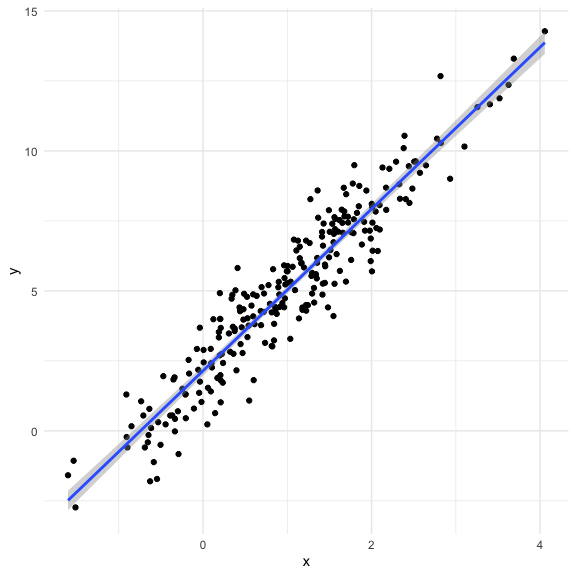
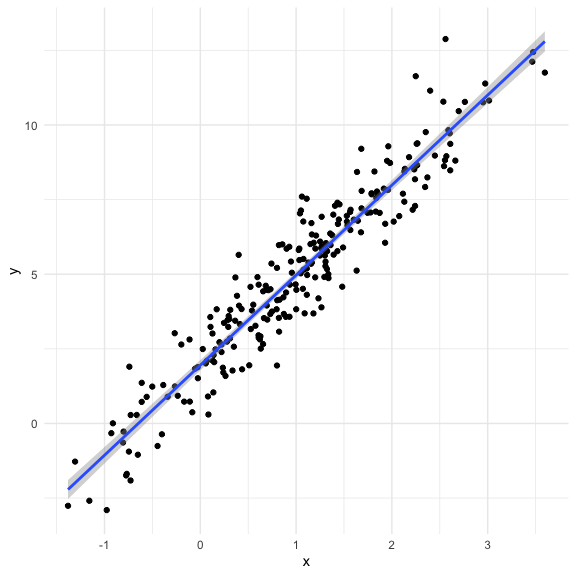
bootstrap and analyze results

diff --git a/bootstraping.md b/bootstraping.md
@@ -102,8 +102,8 @@ lm(y ~ x, data = sim_df_const) %>% broom::tidy()
     ## # A tibble: 2 x 5
     ##   term        estimate std.error statistic   p.value
     ##   <chr>          <dbl>     <dbl>     <dbl>     <dbl>
-    ## 1 (Intercept)     2.15    0.0890      24.1 5.70e- 67
-    ## 2 x               2.89    0.0632      45.8 6.52e-123
+    ## 1 (Intercept)     1.95    0.0878      22.2 6.72e- 61
+    ## 2 x               3.02    0.0626      48.1 7.68e-128
 
 ``` r
 lm(y ~ x, data = sim_df_nonconst) %>% broom::tidy()
@@ -112,8 +112,8 @@ lm(y ~ x, data = sim_df_nonconst) %>% broom::tidy()
     ## # A tibble: 2 x 5
     ##   term        estimate std.error statistic   p.value
     ##   <chr>          <dbl>     <dbl>     <dbl>     <dbl>
-    ## 1 (Intercept)     2.04    0.0894      22.8 1.03e- 62
-    ## 2 x               2.91    0.0635      45.8 5.76e-123
+    ## 1 (Intercept)     2.06    0.0922      22.3 2.40e- 61
+    ## 2 x               2.93    0.0657      44.6 2.38e-120
 
 The assumptions used to build the model are wrong. There is uncertainty
 in the estimates. How much? lets figure that out
@@ -161,5 +161,140 @@ boot_samp(sim_df_nonconst) %>%
     ## # A tibble: 2 x 5
     ##   term        estimate std.error statistic   p.value
     ##   <chr>          <dbl>     <dbl>     <dbl>     <dbl>
-    ## 1 (Intercept)     2.09    0.0992      21.1 2.81e- 57
-    ## 2 x               2.79    0.0709      39.4 9.95e-109
+    ## 1 (Intercept)     2.11    0.104       20.3 1.35e- 54
+    ## 2 x               2.89    0.0736      39.3 1.58e-108
+
+## Many samples and analysis
+
+``` r
+boot_straps = 
+  tibble(
+    strap_num = 1:1000,
+    strap_samp = rerun(1000, boot_samp(sim_df_nonconst))
+  )
+
+#boot_straps %>% pull(strap_samp) %>% .[[3]]
+# above line lets us look at the each tible for the rows
+```
+
+Can I run my analysis on these\>\>
+
+``` r
+boot_results = 
+  boot_straps %>% 
+  mutate(
+    models = map(.x = strap_samp, ~lm(y ~ x, data = .x)), 
+    results = map(models, broom::tidy)
+  ) %>% 
+  select(strap_num, results) %>% 
+  unnest(results)
+```
+
+What do I have now? Usually, the std error and pvalue are computed under
+usual assumptions.
+
+``` r
+boot_results %>% 
+  group_by(term) %>% 
+  summarize(
+    mean_est = mean(estimate),
+    sd_est = sd(estimate)
+  )
+```
+
+    ## `summarise()` ungrouping output (override with `.groups` argument)
+
+    ## # A tibble: 2 x 3
+    ##   term        mean_est sd_est
+    ##   <chr>          <dbl>  <dbl>
+    ## 1 (Intercept)     2.06 0.0596
+    ## 2 x               2.93 0.0834
+
+Look at distributions: lots of uncertainty here if you tried to lit this
+it a linear model
+
+``` r
+boot_results %>% 
+  filter(term == "x") %>% 
+  ggplot(aes(x = estimate)) +
+  geom_density()
+```
+
+<img src="bootstraping_files/figure-gfm/unnamed-chunk-11-1.png" width="90%" />
+
+Construct bootstrap CI
+
+``` r
+boot_results %>% 
+  group_by(term) %>% 
+  summarize(
+    ci_lower = quantile(estimate, 0.025),
+    ci_upper = quantile(estimate, 0.075)
+  )
+```
+
+    ## `summarise()` ungrouping output (override with `.groups` argument)
+
+    ## # A tibble: 2 x 3
+    ##   term        ci_lower ci_upper
+    ##   <chr>          <dbl>    <dbl>
+    ## 1 (Intercept)     1.94     1.97
+    ## 2 x               2.77     2.82
+
+## Bootstrap using `modelr`
+
+Can we simplify anything? yes, obvi
+
+``` r
+sim_df_nonconst %>% 
+  bootstrap(1000, id = "strap_num") %>% 
+  mutate(
+    models = map(.x = strap, ~lm(y ~ x, data = .x)), 
+    results = map(models, broom::tidy)
+  ) %>% 
+  select(strap_num, results) %>% 
+  unnest(results) %>% 
+  group_by(term) %>% 
+  summarize(
+    mean_est = mean(estimate),
+    sd_est = sd(estimate)
+  )
+```
+
+    ## `summarise()` ungrouping output (override with `.groups` argument)
+
+    ## # A tibble: 2 x 3
+    ##   term        mean_est sd_est
+    ##   <chr>          <dbl>  <dbl>
+    ## 1 (Intercept)     2.06 0.0580
+    ## 2 x               2.93 0.0856
+
+These are a little diff bc we’re drawing 1000 samples and they won’t be
+the same every time. If we were to write a paper, we would crank up the
+iterations a lot.
+
+## Does bootstrap do anything if your assumptions are met? like a reg linear sample?? Yes. If assumptions are true, you can do reg lm stuff and bootstrap stuff
+
+``` r
+sim_df_const %>% 
+  bootstrap(1000, id = "strap_num") %>% 
+  mutate(
+    models = map(.x = strap, ~lm(y ~ x, data = .x)), 
+    results = map(models, broom::tidy)
+  ) %>% 
+  select(strap_num, results) %>% 
+  unnest(results) %>% 
+  group_by(term) %>% 
+  summarize(
+    mean_est = mean(estimate),
+    sd_est = sd(estimate)
+  )
+```
+
+    ## `summarise()` ungrouping output (override with `.groups` argument)
+
+    ## # A tibble: 2 x 3
+    ##   term        mean_est sd_est
+    ##   <chr>          <dbl>  <dbl>
+    ## 1 (Intercept)     1.95 0.0879
+    ## 2 x               3.02 0.0634
